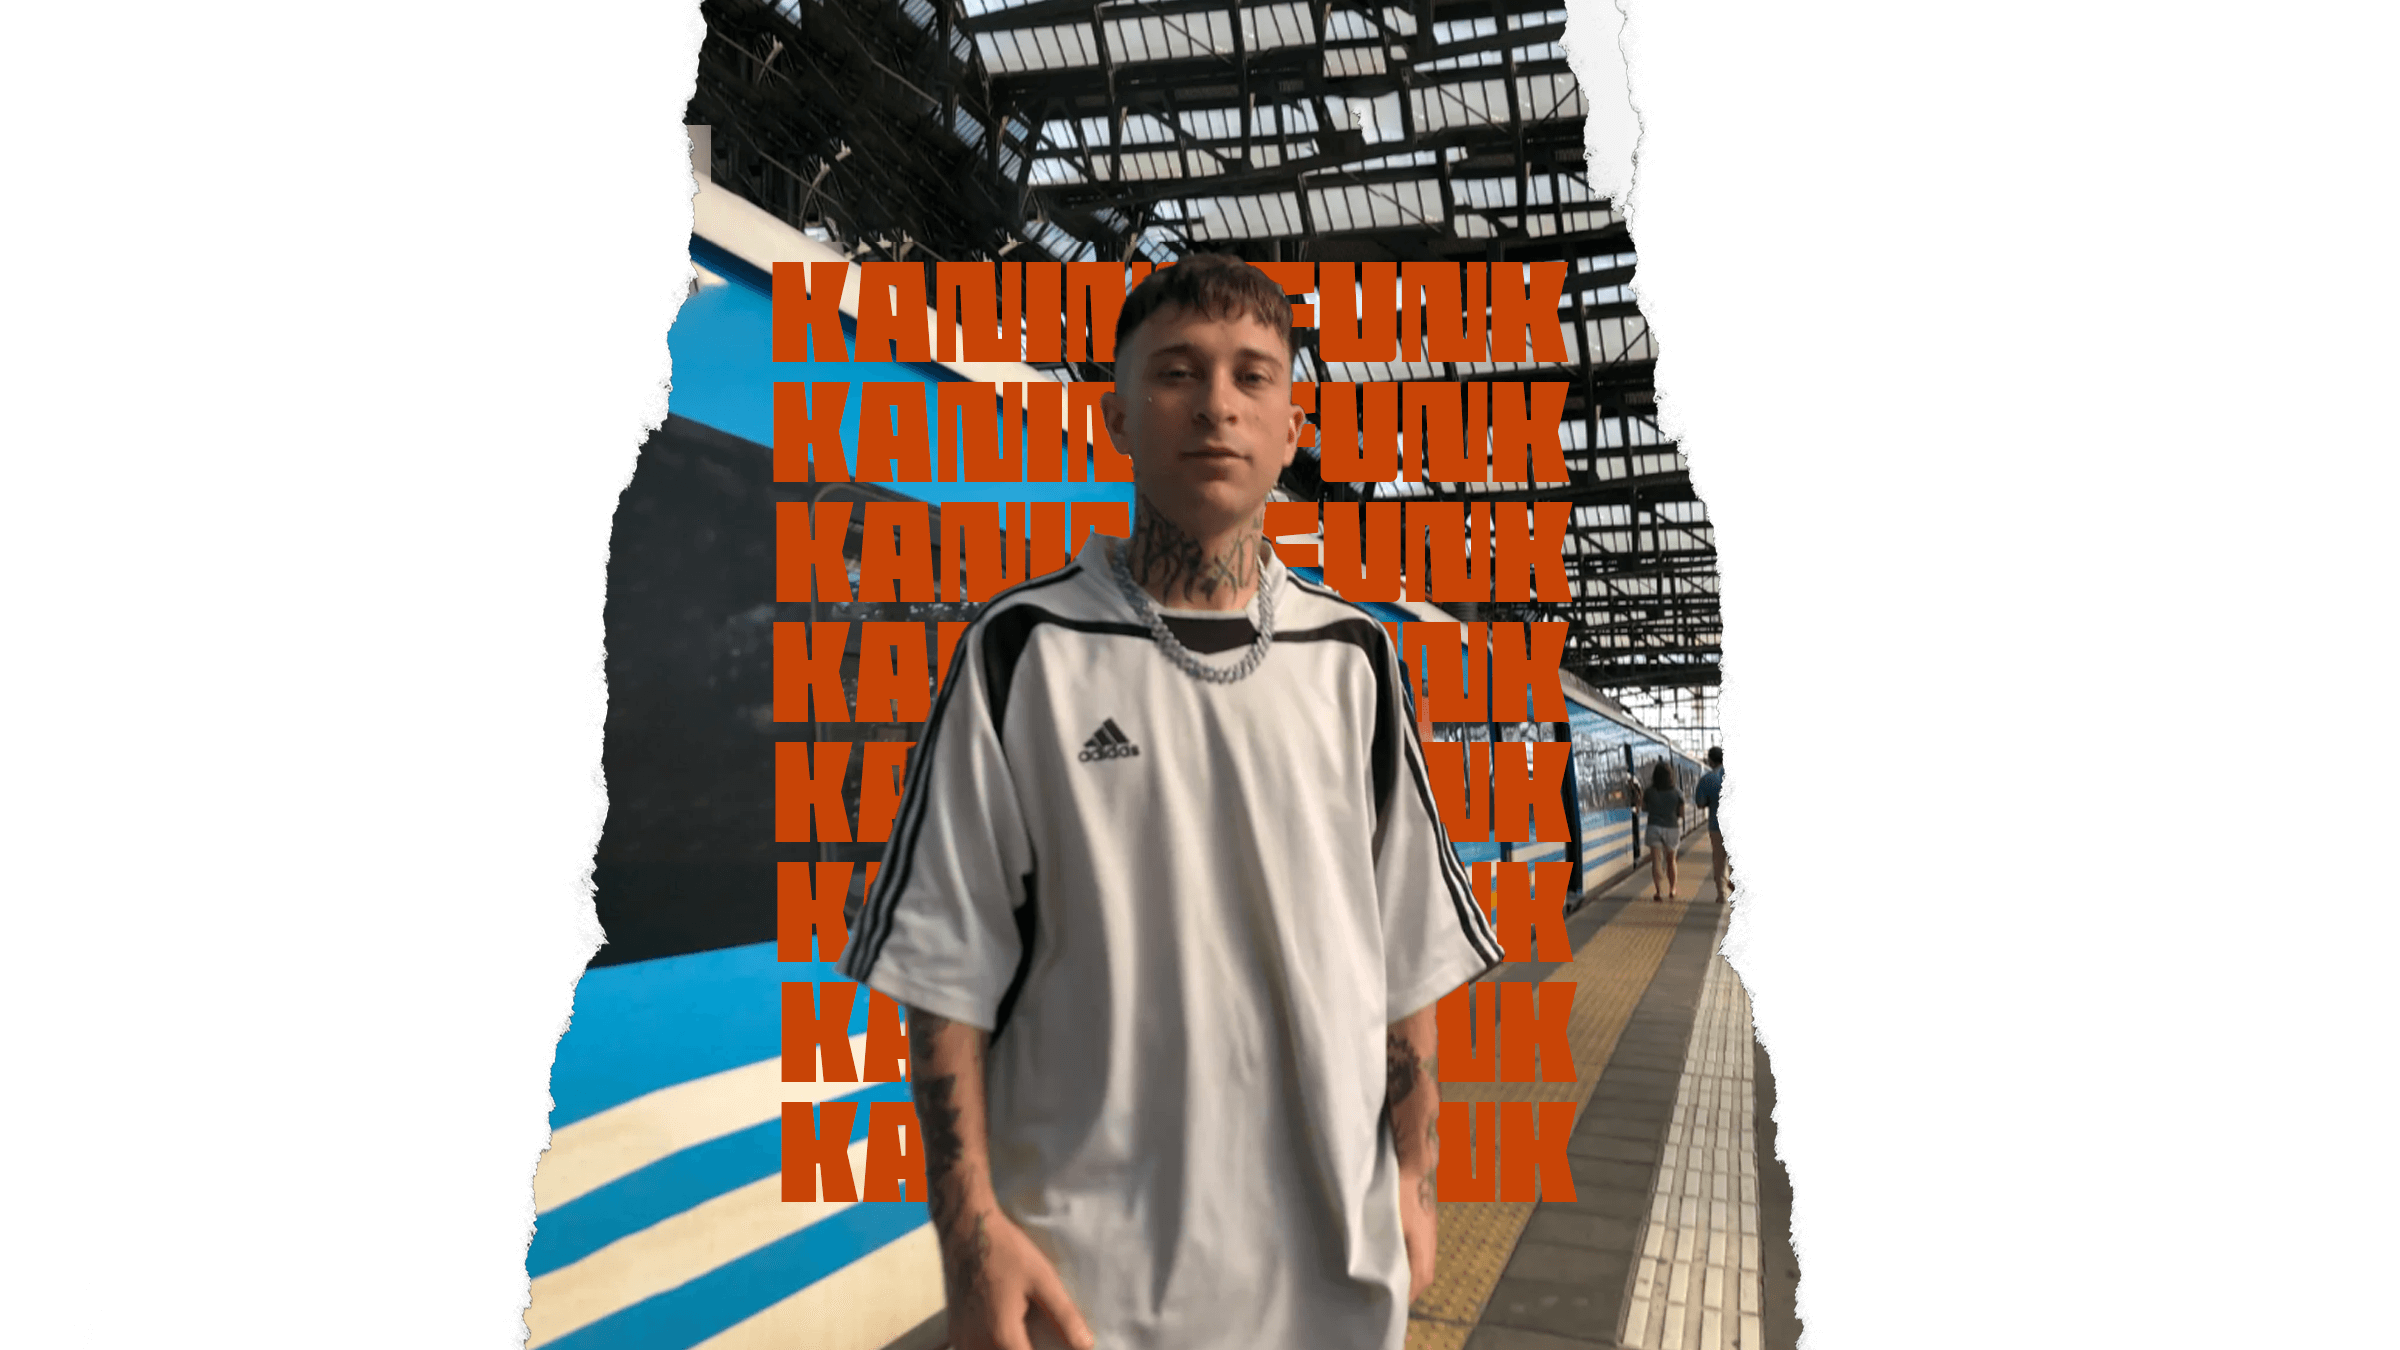
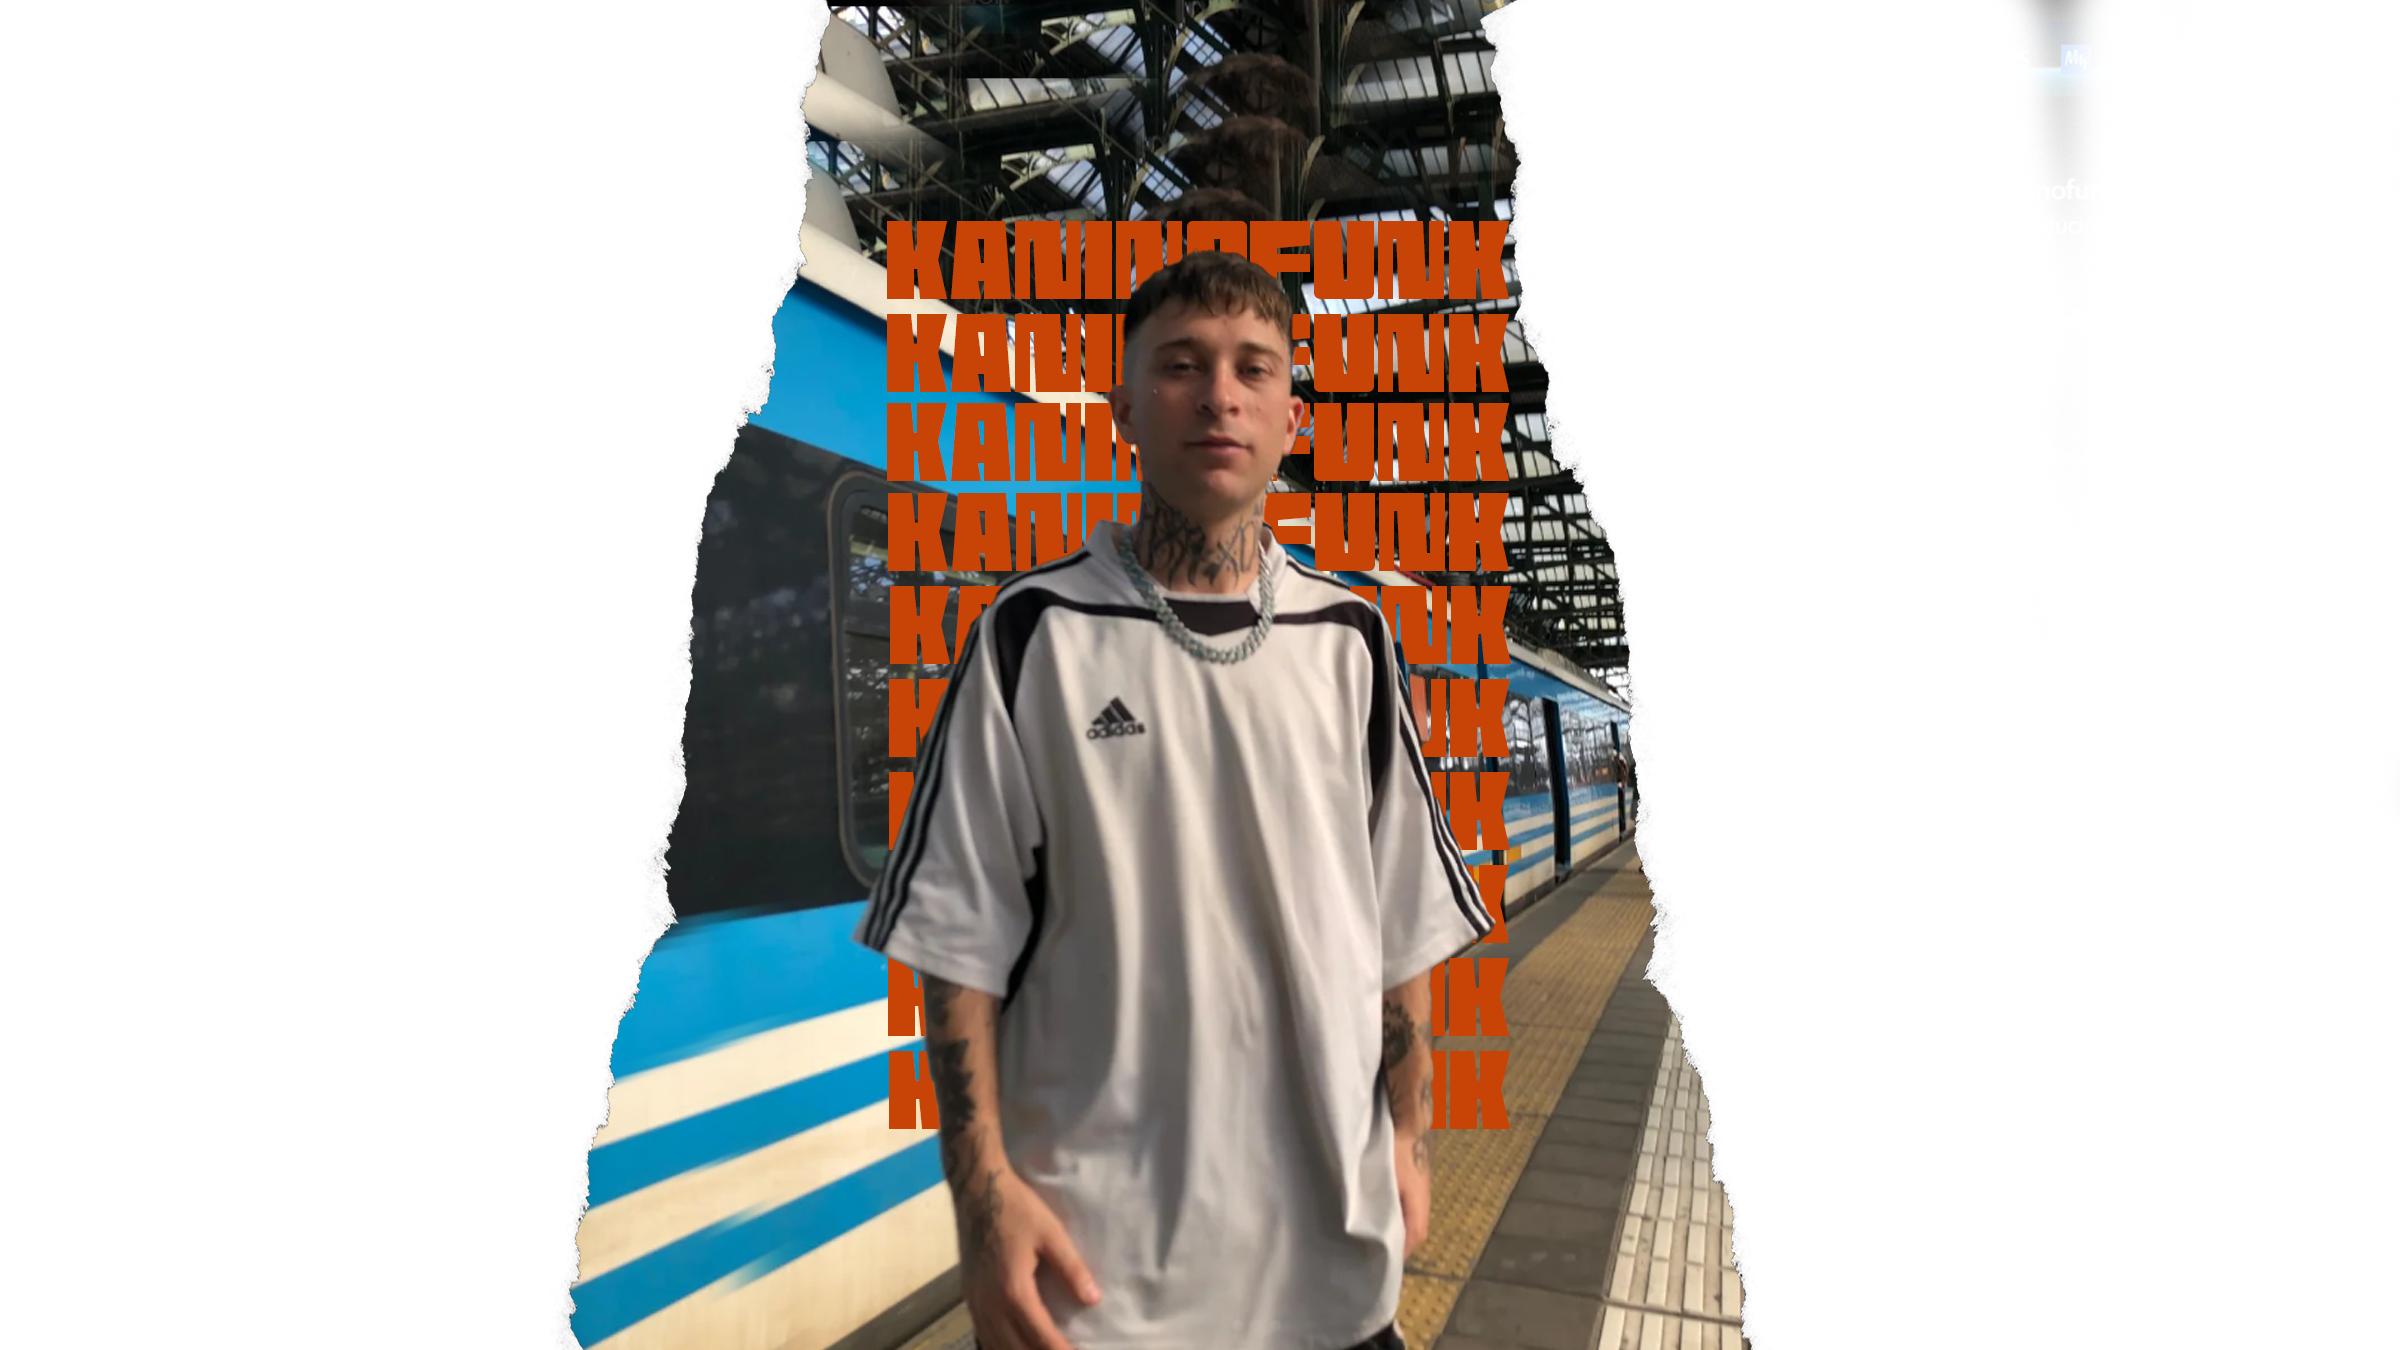
correcciones

Changed region(s): [[0.2188, 0.0, 0.75, 1.0], [0.8438, 0.0, 0.875, 0.0933]]

diff --git a/data.js b/data.js
@@ -22,9 +22,17 @@ export const stories = [
   {
     profileImg: "./assets/profile-5.png",
     profileName: "Youtube",
-    title: ["Videoclips oficiales", "Lanzamientos", "Y mucho más."],
+    title: ["Videoclips oficiales", "Lanzamientos", "Y mucho más"],
     linkLabel: "Canal de Youtube",
-    linkSrc: "https://api.whatsapp.com/send/?phone=5493816671884&text=Hola,%20quiero%20contratar%20tus%20Web%20Services.&type=phone_number&app_absent=0",
+    linkSrc: "https://www.youtube.com/@kaninofunk",
     storyImg: "./assets/story-3.png",
+  },
+  {
+    profileImg: "./assets/profile-3.png",
+    profileName: "Whatsapp",
+    title: ["Contrataciones", "Colaboraciones", "Shows en vivo"],
+    linkLabel: "Contratá por Whatsapp",
+    linkSrc: "https://api.whatsapp.com/send/?phone=5491149391492&text=Hola,%20quiero%20contratar%20al%20Rapero%20del%20Tren%20Roca.&type=phone_number&app_absent=0",
+    storyImg: "./assets/story-4.png",
   },
 ];

diff --git a/index.html b/index.html
@@ -22,6 +22,7 @@
             <div class="index"><div class="index-highlight"></div></div>
             <div class="index"><div class="index-highlight"></div></div>
             <div class="index"><div class="index-highlight"></div></div>
+            <div class="index"><div class="index-highlight"></div></div>
           </div>
 
           <div class="profile">

diff --git a/styles.css b/styles.css
@@ -185,6 +185,10 @@ a {
     padding: 1em;
   }
 
+  .story-img {
+    width: 100vw;
+  }
+
   .cursor {
     display: none;
   }
